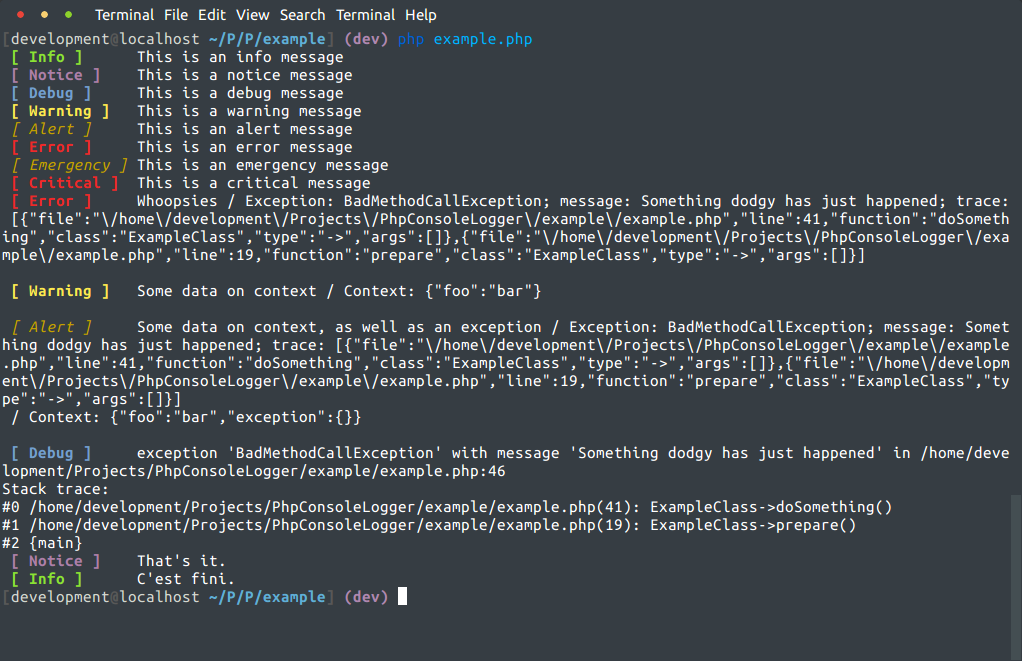
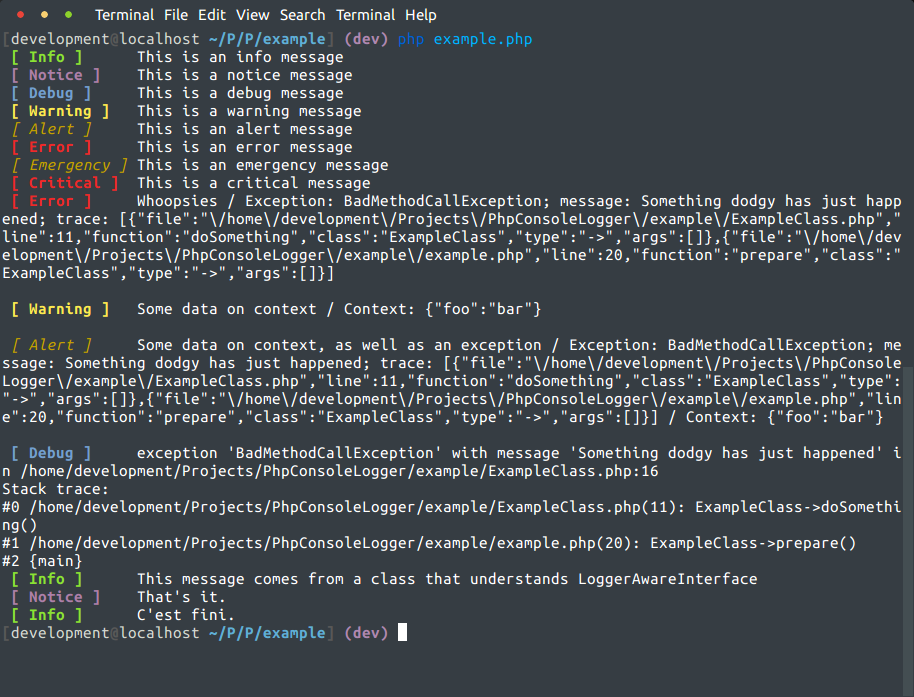
Fix stringable object detection and example image
Moar aclaration

Moar doc

Update README.md

Moar doc

Moar aclaration

Changed region(s): [[0.0, 0.4841, 1.0, 0.938], [0.0, 0.0, 1.0, 0.4539]]

diff --git a/src/PhpConsoleLogger/Console/Logger.php b/src/PhpConsoleLogger/Console/Logger.php
@@ -106,9 +106,15 @@ class Logger extends AbstractLogger
             case 'double':
             case 'string':
             case 'null':
-            case 'object':
                 $parsedMessage = (string) $message;
                 break;
+
+            case 'object':
+                if (method_exists($message, '__toString') !== false) {
+                    $parsedMessage = (string) $message;
+                    break;
+                }
+                // Otherwise, go on to default below
 
             default:
                 throw new InvalidArgumentException('Message can only be a string, number or an object which can be cast to a string');
@@ -141,13 +147,16 @@ class Logger extends AbstractLogger
             $parsedContext .= ' / Exception: ' . get_class($exception);
             $parsedContext .= '; message: ' . $exception->getMessage();
             $parsedContext .= '; trace: ' . json_encode($exception->getTrace());
-            $parsedContext .= PHP_EOL;
             unset($contextCopy['exception']);
         }
 
         // Anything else?
         if (count($contextCopy) > 0) {
-            $parsedContext .= ' / Context: ' . json_encode($context);
+            $parsedContext .= ' / Context: ' . json_encode($contextCopy);
+        }
+
+        // Add an extra separator in case we've added stuff in here for readability
+        if ($parsedContext !== '') {
             $parsedContext .= PHP_EOL;
         }
 

diff --git a/example/example.php b/example/example.php
@@ -1,5 +1,6 @@
 <?php
 require '../vendor/autoload.php';
+require 'ExampleClass.php';
 
 $console = new PhpConsoleLogger\Console\Logger();
 
@@ -13,7 +14,7 @@ $console->error('This is an error message');
 $console->emergency('This is an emergency message');
 $console->critical('This is a critical message');
 
-// Messages with exceptions
+// Messages with exceptions and traces
 try {
     $exampleClass = new ExampleClass();
     $exampleClass->prepare();
@@ -27,22 +28,13 @@ $console->warning('Some data on context', ['foo' => 'bar']);
 // Messages with random data plus exception
 $console->alert('Some data on context, as well as an exception', ['foo' => 'bar', 'exception' => $ex]);
 
-// Passing on an exception directly as a message
+// Passing on an exception directly as a message (or any object that implements __toString)
 $console->debug($ex);
+
+// Since we're PSR-3, we can be injected on objects that understand LoggerAwareInterface - example class does
+$exampleClass->setLogger($console);
+$exampleClass->runLoggerAwareExample();
 
 // You get the idea
 $console->notice('That\'s it.');
 $console->info('C\'est fini.');
-
-class ExampleClass
-{
-    public function prepare()
-    {
-        $this->doSomething();
-    }
-
-    private function doSomething()
-    {
-        throw new BadMethodCallException('Something dodgy has just happened');
-    }
-}

diff --git a/example/ExampleClass.php b/example/ExampleClass.php
@@ -1,0 +1,24 @@
+<?php
+use Psr\Log\LoggerAwareInterface;
+use Psr\Log\LoggerAwareTrait;
+
+class ExampleClass implements LoggerAwareInterface
+{
+    use LoggerAwareTrait;
+
+    public function prepare()
+    {
+        $this->doSomething();
+    }
+
+    private function doSomething()
+    {
+        throw new BadMethodCallException('Something dodgy has just happened');
+    }
+
+    public function runLoggerAwareExample()
+    {
+        // Do stuff
+        $this->logger->info('This message comes from a class that understands LoggerAwareInterface');
+    }
+}

diff --git a/README.md b/README.md
@@ -1,6 +1,38 @@
+README
+======
+
+What is PhpConsoleLogger?
+-----------------
+PhpConsoleLogger is a small class that implements a way to display messages in a console with an interface which is
+PSR-3 compatible. This means you can drop it in as a logger on code that is PSR-3 LoggerAwareInterface compatible and away
+you go.
+
+This logger is really meant to be used for command line scripts due to shell-specific colouring commands.
+
+You might want to use this on those command line scripts we all use to do things like migrations, data fixes etc; without
+the overhead of adding a full-on PHP console suite.
+
+Requirements
+------------
+Very little: PHP 5.4+.
+
+Installation
+------------
+The preferred method is through composer, via ```composer require luispabon/PhpConsoleLogger```. You can always download
+and install manually, but you'd need to somehow shoehorn both psr/log and PhpConsoleLogger into your autoload mechanism.
+
+Contributing
+------------
+If you use Github, you already know the drill: fork, branch and pull request.
+
+Examples
+-------------
+I have provided with an example (code and output below) you can run by running ```php example/example.php```.
+
 ```php
 <?php
 require '../vendor/autoload.php';
+require 'ExampleClass.php';
 
 $console = new PhpConsoleLogger\Console\Logger();
 
@@ -14,7 +46,7 @@ $console->error('This is an error message');
 $console->emergency('This is an emergency message');
 $console->critical('This is a critical message');
 
-// Messages with exceptions
+// Messages with exceptions and traces
 try {
     $exampleClass = new ExampleClass();
     $exampleClass->prepare();
@@ -28,26 +60,17 @@ $console->warning('Some data on context', ['foo' => 'bar']);
 // Messages with random data plus exception
 $console->alert('Some data on context, as well as an exception', ['foo' => 'bar', 'exception' => $ex]);
 
-// Passing on an exception directly as a message
+// Passing on an exception directly as a message (or any object that implements __toString)
 $console->debug($ex);
+
+// Since we're PSR-3, we can be injected on objects that understand LoggerAwareInterface - example class does
+$exampleClass->setLogger($console);
+$exampleClass->runLoggerAwareExample();
 
 // You get the idea
 $console->notice('That\'s it.');
 $console->info('C\'est fini.');
-
-class ExampleClass
-{
-    public function prepare()
-    {
-        $this->doSomething();
-    }
-
-    private function doSomething()
-    {
-        throw new BadMethodCallException('Something dodgy has just happened');
-    }
-}
 ```
 
 Which looks like:
-![](https://github.com/luispabon/PhpConsoleLogger/raw/dev/example/example.png)
+![](example/example.png)
